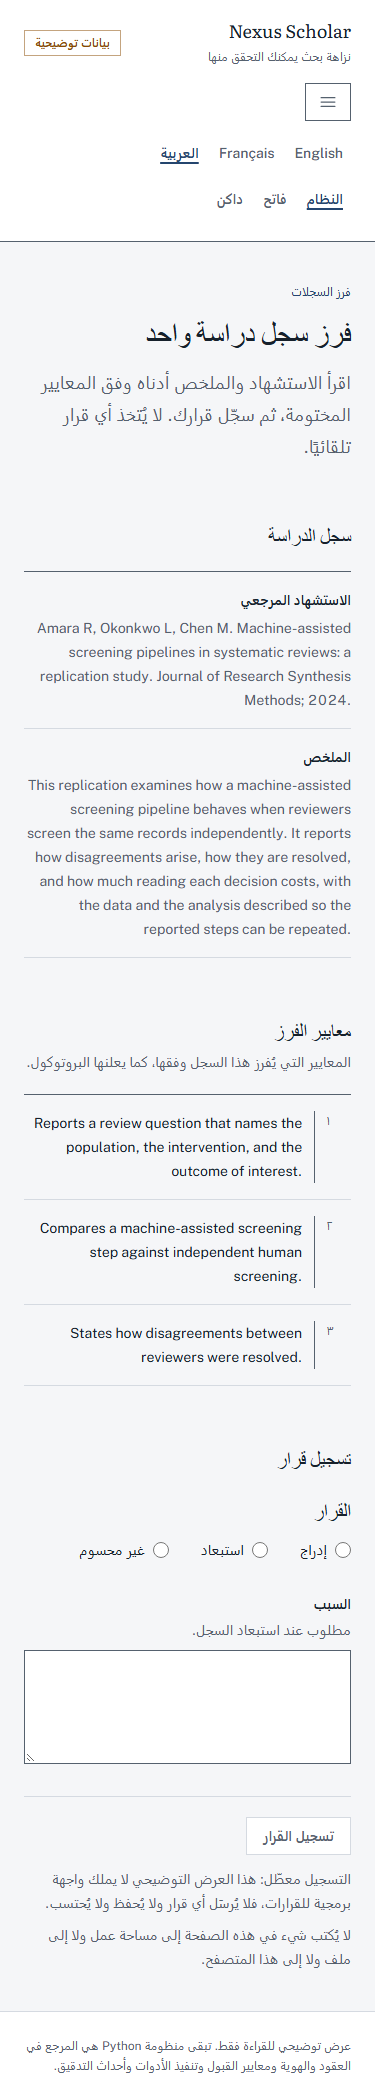
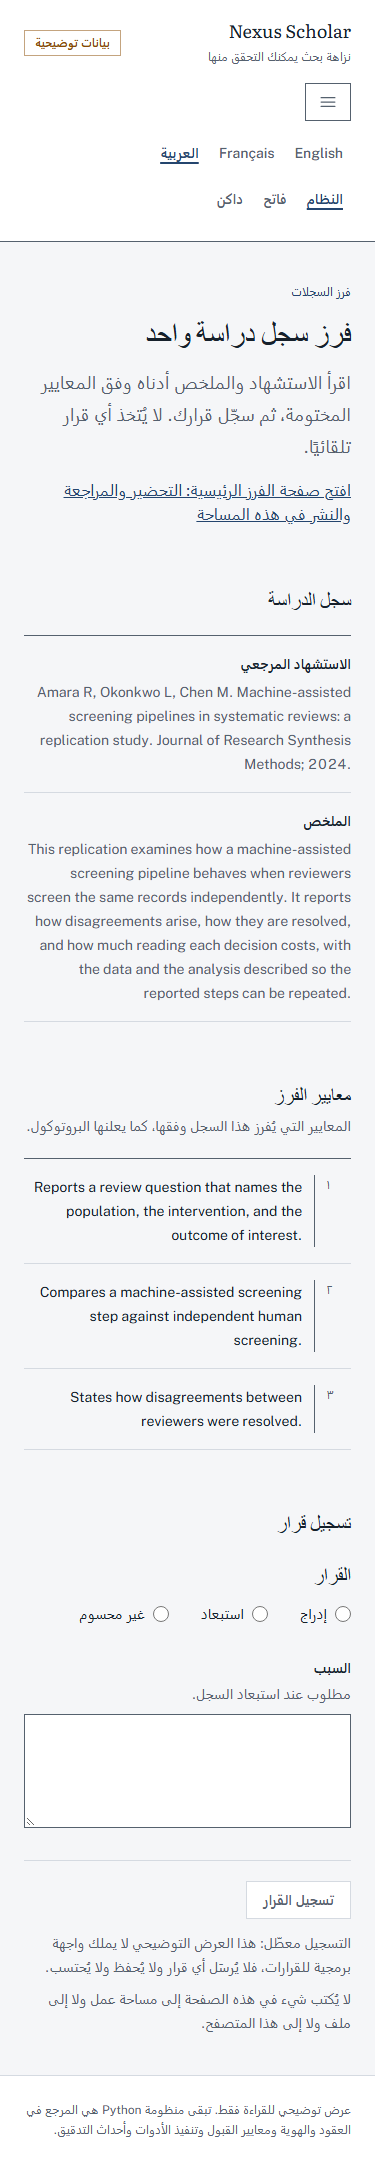
fix(m1b-1): browser-suite hygiene and tab order after the new screens
- The new screens use rounded-sm (a design-system radius) instead of bare
  rounded, and the publish preview's display:contents row makes `contents` a
  real utility, so it leaves the prose-collateral allow-list.
- The legacy /screening page's link to the screening home is a new tab stop;
  the tab-order expectations (1440/en, 375/ar) include it, read from the
  component rather than restated.
- The three /screening screenshots show that link.

diff --git a/apps/research-ui/tests-browser/tab-order.spec.ts b/apps/research-ui/tests-browser/tab-order.spec.ts
@@ -1,3 +1,4 @@
+import { NEW_SCREENS_LINK } from "../components/screening-page";
 import {
   DESKTOP_VIEWPORT,
   MOBILE_NAV_TRIGGER,
@@ -167,7 +168,7 @@ test.describe("rendered tab order — the screening workspace", () => {
   const RADIO = "input:screening-decision-include";
   const REASON = "textarea:screening-reason";
 
-  test("1440px/en: [skip, Overview, Screening, Corpus, Audit, three locales, three themes, include radio, reason field]", async ({
+  test("1440px/en: [skip, Overview, Screening, Corpus, Audit, three locales, three themes, screening-home link, include radio, reason field]", async ({
     page,
   }) => {
     await page.setViewportSize(DESKTOP_VIEWPORT);
@@ -184,6 +185,8 @@ test.describe("rendered tab order — the screening workspace", () => {
       `a:${CATALOGS.en["nav.audit"]}`,
       ...LOCALE_ENDONYMS.map((endonym) => `a:${endonym}`),
       ...themeStops("en"),
+      // M1b-1: the lede links to the new screening home.
+      `a:${NEW_SCREENS_LINK.en}`,
       RADIO,
       REASON,
     ]);
@@ -202,6 +205,7 @@ test.describe("rendered tab order — the screening workspace", () => {
       `button:${CATALOGS.ar["a11y.openMainNavigation"]}`,
       ...LOCALE_ENDONYMS.map((endonym) => `a:${endonym}`),
       ...themeStops("ar"),
+      `a:${NEW_SCREENS_LINK.ar}`,
       RADIO,
       REASON,
     ]);

diff --git a/apps/research-ui/components/screening-home.tsx b/apps/research-ui/components/screening-home.tsx
@@ -275,8 +275,8 @@ function HomeReady({
         <h2 id="home-progress" className="font-semibold text-ink">
           {t("progress")}
         </h2>
-        <div role="img" aria-label={t("progressLabel", { decided: n(summary.decided), total: n(summary.total) })} className="mt-3 h-2 w-full rounded bg-rule">
-          <div className="h-2 rounded bg-brand" style={{ width: `${percent}%` }} />
+        <div role="img" aria-label={t("progressLabel", { decided: n(summary.decided), total: n(summary.total) })} className="mt-3 h-2 w-full rounded-sm bg-rule">
+          <div className="h-2 rounded-sm bg-brand" style={{ width: `${percent}%` }} />
         </div>
         <dl className="mt-4 grid grid-cols-2 gap-4 sm:grid-cols-4">
           <Tile label={t("needsYou")} value={n(summary.needs_you)} />

diff --git a/apps/research-ui/components/triage-page.tsx b/apps/research-ui/components/triage-page.tsx
@@ -727,8 +727,8 @@ function TriageScreen({ locale }: Readonly<{ locale: Locale }>) {
           {proposal.status === "hidden" ? (
             <div className="mt-3 space-y-2" aria-hidden="false">
               <p className="text-ink-muted">{t("proposalHiddenBody")}</p>
-              <div className="h-3 w-3/4 rounded bg-rule" />
-              <div className="h-3 w-1/2 rounded bg-rule" />
+              <div className="h-3 w-3/4 rounded-sm bg-rule" />
+              <div className="h-3 w-1/2 rounded-sm bg-rule" />
             </div>
           ) : proposal.status === "none" ? (
             <p className="mt-3 text-ink-muted">{t("proposalNone")}</p>

diff --git a/apps/research-ui/components/screening-page.tsx b/apps/research-ui/components/screening-page.tsx
@@ -35,7 +35,7 @@ import { ACTION_CHROME, PairingDialog, type PairingServerError } from "./pairing
 import { ScreeningForm } from "./screening-form";
 
 /** Link to the M1b screening screens; the legacy page is retired at M5-slim. */
-const NEW_SCREENS_LINK: Record<Locale, string> = {
+export const NEW_SCREENS_LINK: Record<Locale, string> = {
   en: "Open the screening home: prepare, triage and publish on this workspace",
   fr: "Ouvrir l'accueil de la sélection : préparer, trier et publier sur cet espace",
   ar: "افتح صفحة الفرز الرئيسية: التحضير والمراجعة والنشر في هذه المساحة",

diff --git a/apps/research-ui/tests-browser/hygiene.spec.ts b/apps/research-ui/tests-browser/hygiene.spec.ts
@@ -262,7 +262,6 @@ function hasClassToken(source: string, cls: string): boolean {
  */
 const COLLATERAL_EMITTED = new Set([
   "collapse", // "the columns collapse" — workflow-timeline.tsx
-  "contents", // "a contents page" — primary-nav.tsx
   "ordinal", // "a marginal ordinal" — evidence-chain / workflow-timeline
   "rounded", // "rounded" in the shape prose; not a group member of rounded-full
   "shadow", // "shadowed" / "drop shadow" in the shape prose
